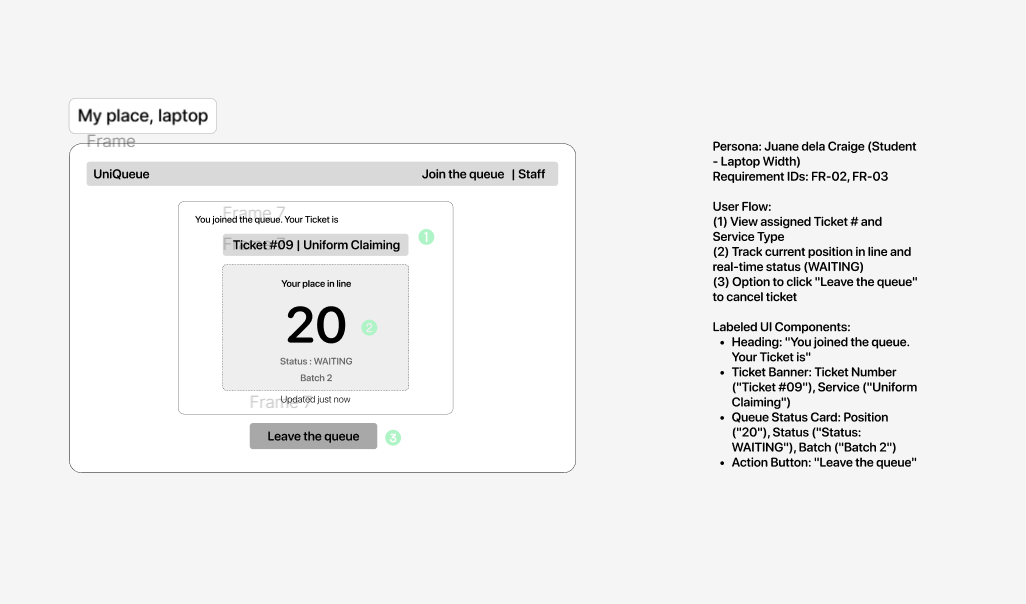
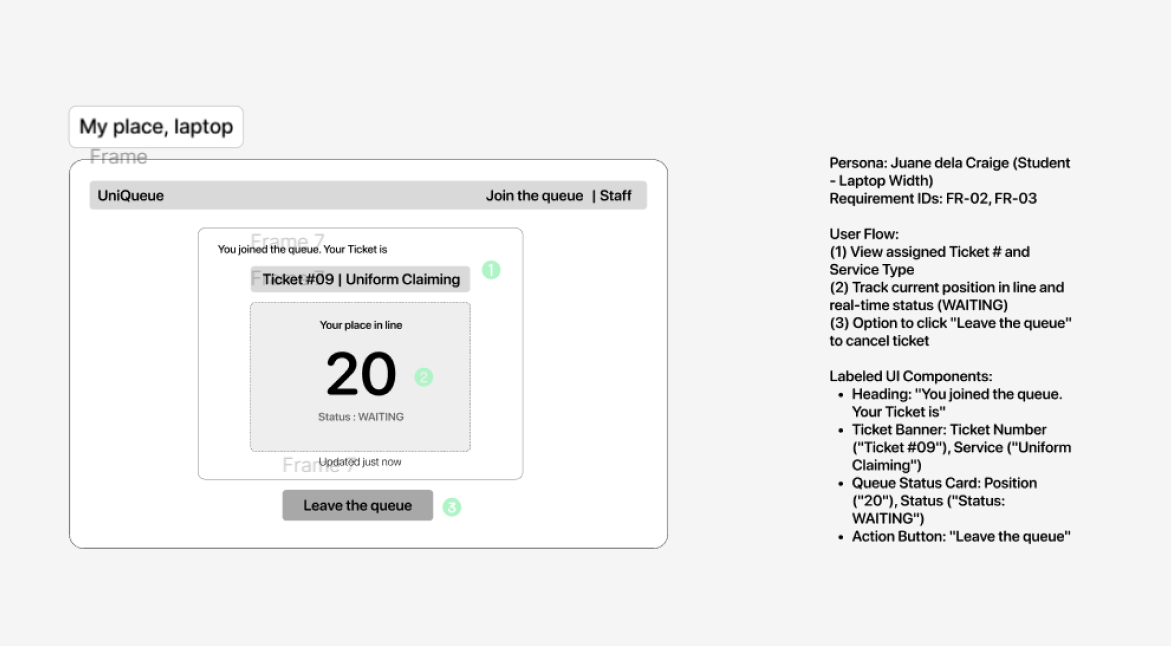
Complete Part 3 self-review(#1)

Changed region(s): [[0.0624, 0.1788, 0.5614, 0.8046], [0.6862, 0.2384, 0.9357, 0.8642], [0.0624, 0.8344, 0.5614, 0.8642]]

diff --git a/templates/index.html b/templates/index.html
@@ -14,7 +14,7 @@
           <h5 class="mb-1">Ticket #{{ ticket.number }} - {{ ticket.name }}</h5>
           <small class="text-muted">{{ ticket.status|capitalize }}</small>
         </div>
-        <p class="mb-1"><strong>Student ID:</strong> {{ ticket.student_id }} | <strong>Batch:</strong> {{ ticket.batch }}</p>
+        <p class="mb-1"><strong>Student ID:</strong> {{ ticket.student_id }}</p>
       </a>
     {% endfor %}
   </div>

diff --git a/templates/ticket.html b/templates/ticket.html
@@ -1,6 +1,6 @@
 {% extends "base.html" %}
 
-{% block title %}Ticket #{{ ticket_id }} · ClinicQ{% endblock %}
+{% block title %}Ticket #{{ ticket_id }} · UniQueue{% endblock %}
 
 {% block content %}
   <h2>Ticket #{{ ticket_id }}</h2>

diff --git a/app.py b/app.py
@@ -14,13 +14,13 @@ SERVICES = [
 ]
 
 # Sample data for the demo. A real app would load this from a database later.
+# status is one of: waiting, called, served, no-show
 TICKETS = [
     {
         "number": 1,
         "name": "Juane dela Craige",
         "email": "juan.delacraige@g.msuiit.edu.ph",
         "student_id": "2026-0001",
-        "batch": "Batch A (8:00 AM - 10:00 AM)",
         "service_id": 1,
         "status": "waiting",
     },
@@ -29,7 +29,6 @@ TICKETS = [
         "name": "Bam Bart",
         "email": "bam.bart@g.msuiit.edu.ph",
         "student_id": "2026-0002",
-        "batch": "Batch A (8:00 AM - 10:00 AM)",
         "service_id": 2,
         "status": "waiting",
     },

diff --git a/docs/week3/feedback.md b/docs/week3/feedback.md
@@ -1,0 +1,24 @@
+# Part 3: Self-Review of Personas and Wireframes
+
+
+## Screen 1: Join the Queue (`join-phone.png` & `join-laptop.png`)
+
+- **Works well:** The form layout is simple and intuitive across mobile and desktop viewports. The vertical stack of labeled inputs allows Juane to fill out his information and request a ticket within 5 seconds.
+- **Problem:** *Match between system and the real world & Error Prevention* — The "Batch No." input was confusing because students are not pre-assigned batch numbers beforehand (batches simply refer to daily release waves). Requiring students to select a batch number created unnecessary friction and risk of incorrect entries.
+- **Change:** Removed the "Batch No." input from the Join form entirely to streamline ticket generation. The system automatically assigns the active batch context, while helper text was added under the "Service" dropdown to clarify counter transactions.
+
+---
+
+## Screen 2: My Place / Ticket (`my place-phone.png` & `my place-laptop.png`)
+
+**Works well:** *Visibility of System Status & Visual Hierarchy* — The ticket number ("Ticket #09") and queue position ("20") are placed front-and-center in large, high-contrast typography. This directly satisfies Juane's persona rule ("Because Juane checks his phone while walking between classes in bright sunlight, his ticket number and position must be the largest element").
+- **Problem:** *Minimalist Design & Data Minimization* — Displaying "Batch 2" inside the status card added visual clutter without providing actionable value to the student while waiting in line.
+- **Change:** Removed the "Batch" display label from the ticket card so Juane can focus entirely on his position number ("20"), current status ("WAITING"), and estimated wait context.
+
+---
+
+## Screen 3: Staff Dashboard (`staff dashboard-phone.png` & `staff dasboard-laptop.png`)
+
+- **Works well:** *Flexibility and Efficiency of Use* — The primary action button ("Call Next") is placed right above the table in a prominent layout (full-width on mobile, top-right on laptop). This allows Ate Marie to rapidly call the next student with a single tap at the counter desk.
+- **Potential Risk / Problem:** *Consistency & Mobile Usability* — Displaying all candidate data columns simultaneously on small screens could clip content and make row actions hard to reach.
+- **Change:** Maintained a mobile table with an explicit horizontal scroll container and a clear "table scrolls sideways" indicator from the initial wireframe phase, ensuring "Call Next" stays pinned at the top while all row actions remain accessible.

diff --git a/docs/week3/personas.md b/docs/week3/personas.md
@@ -16,7 +16,7 @@
 
 ### Scenario
 
-Juane’s assigned uniform claiming schedule is tied to his PE class time slot (Batch A: Mon/Thu 8:00 AM - 10:00 AM). When he arrives at the gym, he finds a large, crowded line made up of students from various PE sections, along with others waiting outside their designated schedule. Wanting to avoid standing under the direct heat of the sun in the unorganized queue, he opens UniQueue on his phone while walking toward the venue, selects "Uniform Claiming / Pickup", and receives Ticket #12. Seeing "4 people ahead" on his screen, he waits under the shaded bleachers nearby until his turn is called.
+Juane’s assigned uniform claiming schedule is tied to his PE class time slot. When he arrives at the gym, he finds a large, crowded line made up of students from various PE sections, along with others waiting outside their designated schedule. Wanting to avoid standing under the direct heat of the sun in the unorganized queue, he opens UniQueue on his phone while walking toward the venue, selects "Uniform Claiming / Pickup", and receives Ticket #12. Seeing "4 people ahead" on his screen, he waits under the shaded bleachers nearby until his turn is called.
 
 ### Top tasks in the app
 
@@ -50,7 +50,7 @@ Juane’s assigned uniform claiming schedule is tied to his PE class time slot (
 
 ### Scenario
 
-Ate Marie sits at the uniform pickup counter during peak morning hours. She opens the UniQueue Staff Dashboard on her laptop, filters the list to "Uniform Claiming / Pickup", and clicks "Call next". Ticket #12 updates to "Called", alerting Juane to approach the counter. Once she hands him the uniform, she clicks "Serve" to move to the next student.
+Maria Claria sits at the uniform pickup counter during peak morning hours. She opens the UniQueue Staff Dashboard on her laptop, filters the list to "Uniform Claiming / Pickup", and clicks "Call next". Ticket #12 updates to "Called", alerting Juane to approach the counter. Once she hands him the uniform, she clicks "Serve" to move to the next student.
 
 ### Top tasks in the app
 
